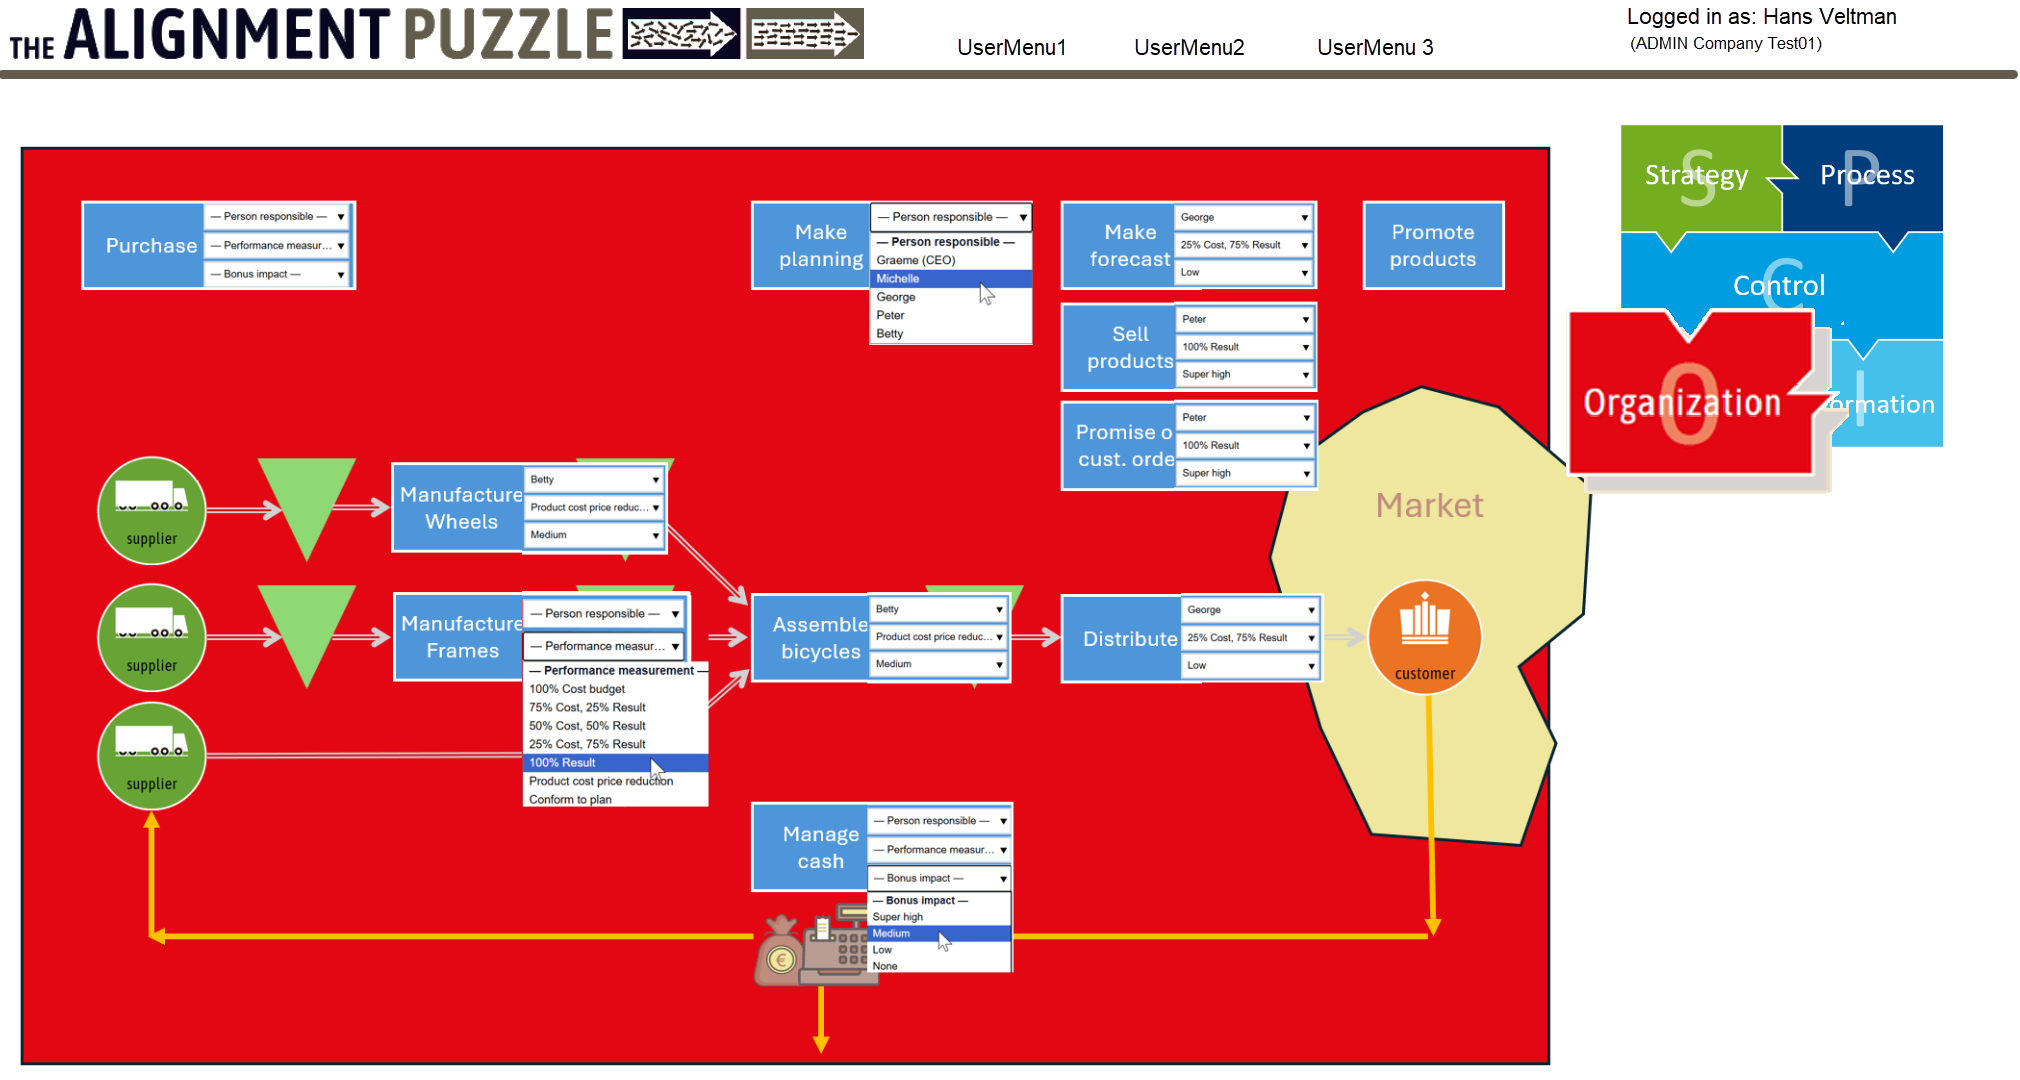
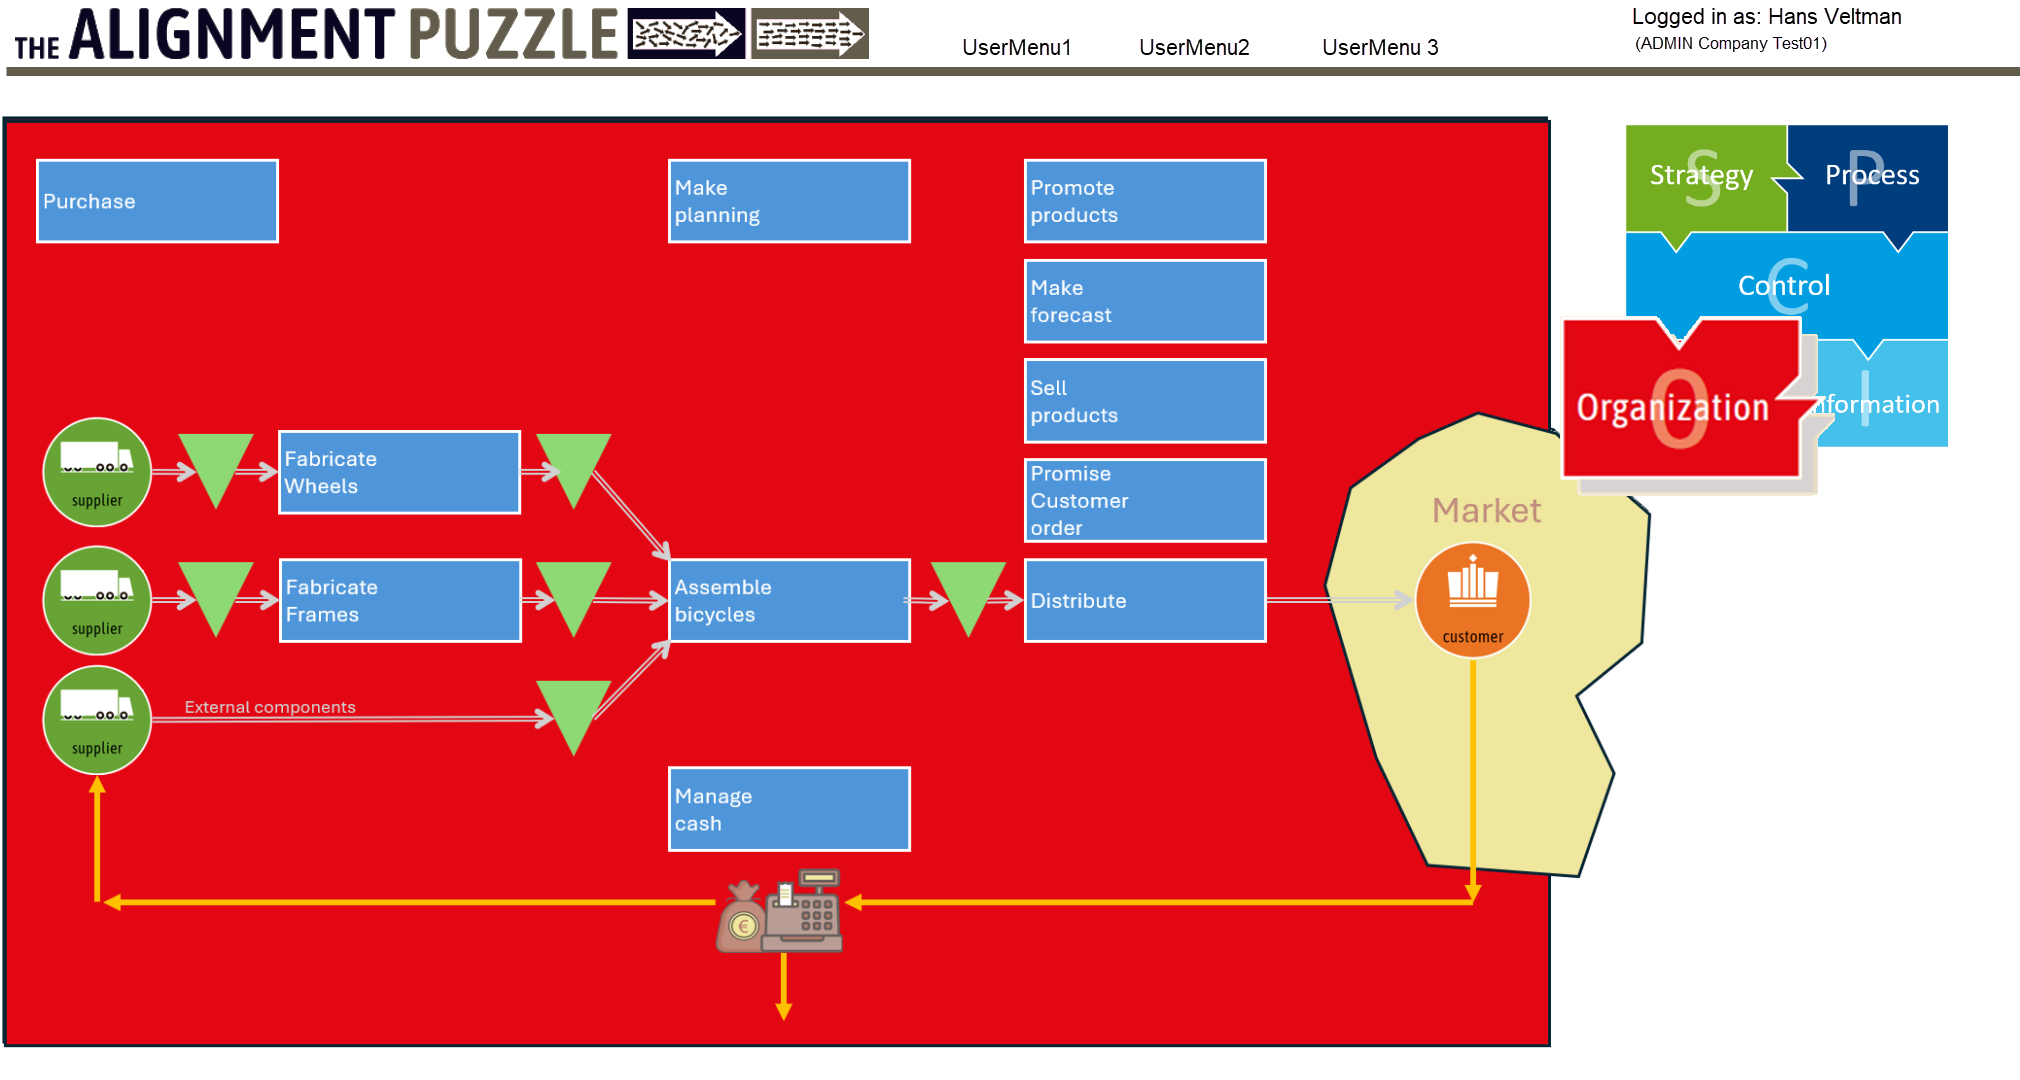
Korte beschrijving van de wijziging

diff --git a/overlay-activities.js b/overlay-activities.js
@@ -8,17 +8,17 @@
   const VOFF_BONUS = 32;     // px below the person select
 
   const activities = [
-    { key: "Act_Purchase",           label: "Act_Purchase",           xPx: 203,  yPx: 202,  props: {} },
-    { key: "Act_MakePlanning",       label: "Act_MakePlanning",       xPx: 871,  yPx: 202,  props: {} },
-    { key: "Act_MakeForecast",       label: "Act_MakeForecast",       xPx: 1173, yPx: 202,  props: {} },
-    { key: "Act_PromoteProducts",    label: "Act_PromoteProducts",    xPx: 1478, yPx: 202,  props: {} },
-    { key: "Act_SellProduct",        label: "Act_SellProduct",        xPx: 1173, yPx: 309,  props: {} },
-    { key: "Act_PromiseOnCustOrder", label: "Act_PromiseOnCustOrder", xPx: 1173, yPx: 408,  props: {} },
-    { key: "Act_ManufactWheels",     label: "Act_ManufactWheels",     xPx: 524,  yPx: 465,  props: {} },
-    { key: "Act_ManufactFrames",     label: "Act_ManufactFrames",     xPx: 524,  yPx: 600,  props: {} },
-    { key: "Act_AssembleProds",      label: "Act_AssembleProds",      xPx: 871,  yPx: 600,  props: {} },
-    { key: "Act_DistributeProds",    label: "Act_DistributeProds",    xPx: 1173, yPx: 600,  props: {} },
-    { key: "Act_ManageCash",         label: "Act_ManageCash",         xPx: 871,  yPx: 808,  props: {} },
+    { key: "Act_Purchase",           label: "Act_Purchase",           xPx: 139,  yPx: 164,  props: {} },
+    { key: "Act_MakePlanning",       label: "Act_MakePlanning",       xPx: 774,  yPx: 164,  props: {} },
+    { key: "Act_PromoteProducts",    label: "Act_PromoteProducts",    xPx: 1130, yPx: 164,  props: {} },
+    { key: "Act_MakeForecast",       label: "Act_MakeForecast",       xPx: 1130, yPx: 262,  props: {} },
+    { key: "Act_SellProduct",        label: "Act_SellProduct",        xPx: 1130, yPx: 365,  props: {} },
+    { key: "Act_PromiseOnCustOrder", label: "Act_PromiseOnCustOrder", xPx: 1130, yPx: 463,  props: {} },
+    { key: "Act_ManufactWheels",     label: "Act_ManufactWheels",     xPx: 384,  yPx: 434,  props: {} },
+    { key: "Act_ManufactFrames",     label: "Act_ManufactFrames",     xPx: 384,  yPx: 565,  props: {} },
+    { key: "Act_AssembleProds",      label: "Act_AssembleProds",      xPx: 774,  yPx: 565,  props: {} },
+    { key: "Act_DistributeProds",    label: "Act_DistributeProds",    xPx: 1131, yPx: 565,  props: {} },
+    { key: "Act_ManageCash",         label: "Act_ManageCash",         xPx: 774,  yPx: 772,  props: {} },
   ];
 
   const STORAGE_KEY = "activityAssignments_v2";
@@ -68,18 +68,18 @@
 
   function optionsPerson() {
     return [
-      { value: "", label: "- Person Responsible -", disabled: true },
+      { value: "", label: "- Manager -", disabled: true },
       { value: "Graeme (CEO)", label: "Graeme (CEO)" },
-      { value: "Michelle (VP)", label: "Michelle (VP)" },
-      { value: "George (VP)", label: "George (VP)" },
-      { value: "Peter (VP)", label: "Peter (VP)" },
-      { value: "Betty (VP)", label: "Betty (VP)" },
+      { value: "Michelle", label: "Michelle" },
+      { value: "George", label: "George" },
+      { value: "Peter", label: "Peter" },
+      { value: "Betty", label: "Betty" },
     ];
   }
 
   function optionsMeasurement() {
     return [
-      { value: "", label: "-Performance measure-", disabled: true },
+      { value: "", label: "-Perf. measure-", disabled: true },
       { value: "100% Cost budget", label: "100% Cost budget" },
       { value: "75% Cost, 25% Result", label: "75% Cost, 25% Result" },
       { value: "50% Cost, 50% Result", label: "50% Cost, 50% Result" },

diff --git a/styles.css b/styles.css
@@ -19,6 +19,6 @@ html, body { height: 100%; margin: 0; background: #efece0; font-family: system-u
 #ui-overlay select.ui-select{
   box-sizing: border-box;
   white-space: nowrap;
-  width: 132px;        /* kies wat past */
+  width: 85px;        /* kies wat past */
 }
 
